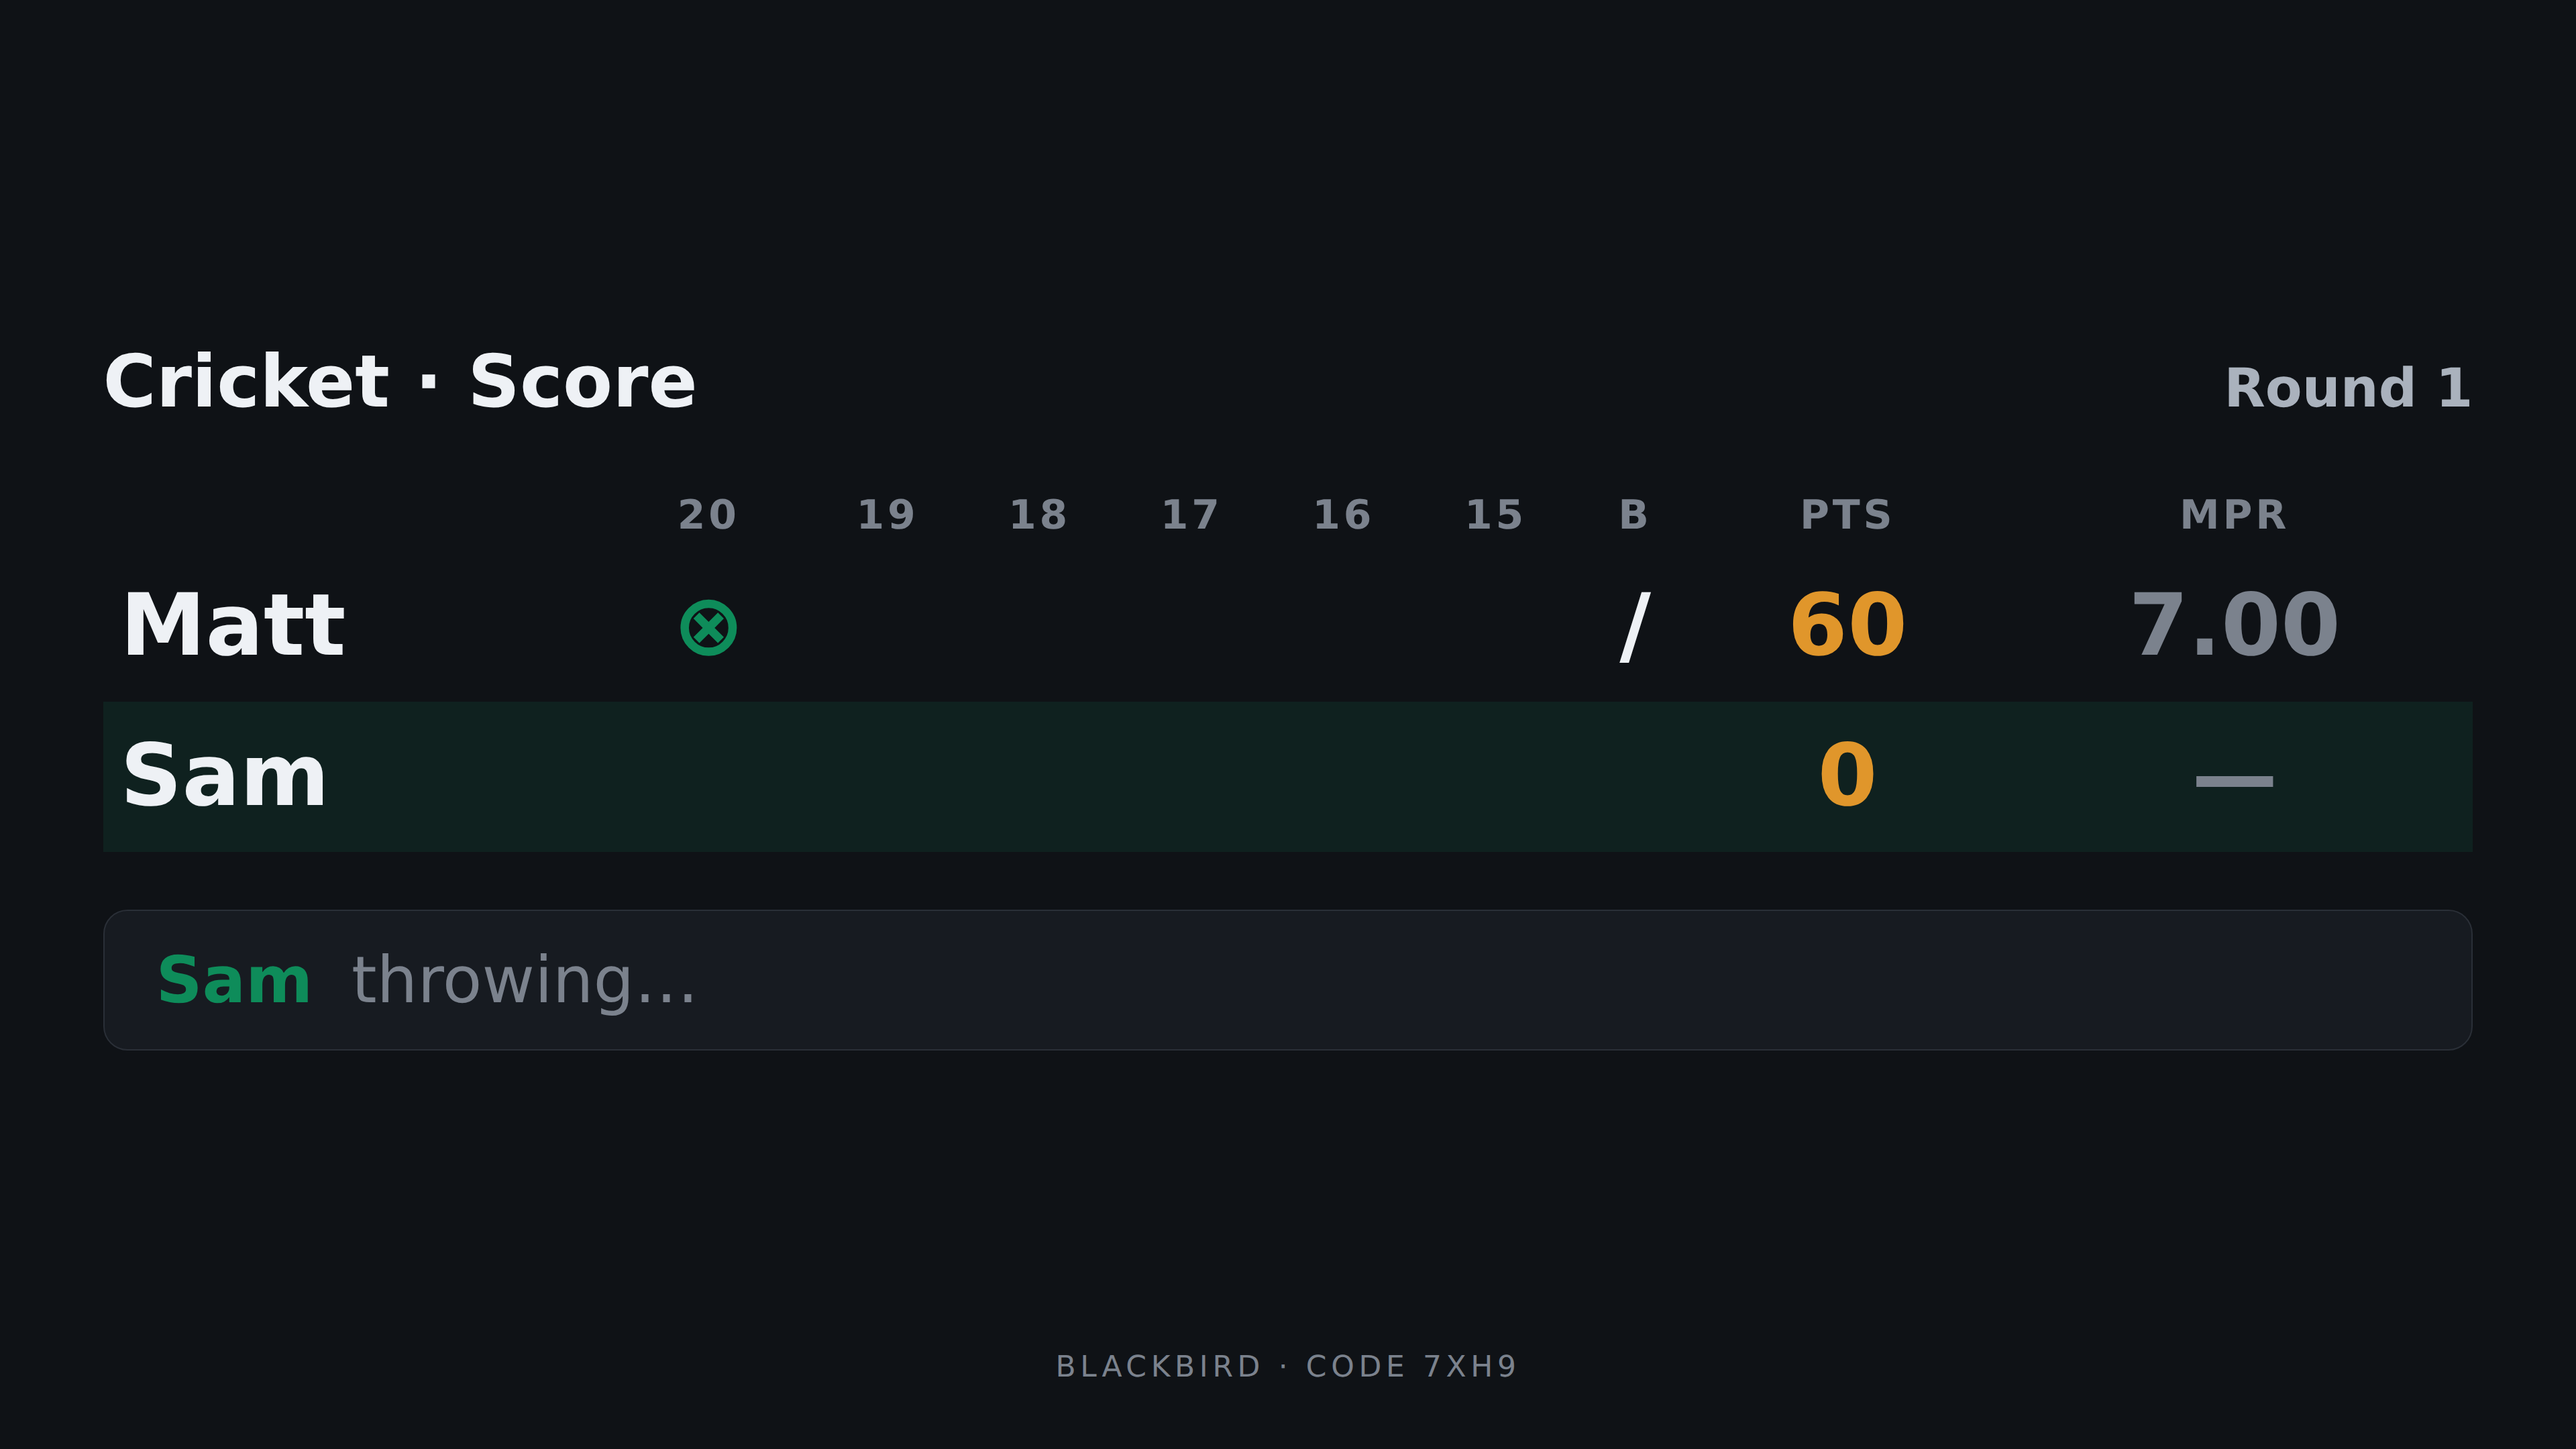
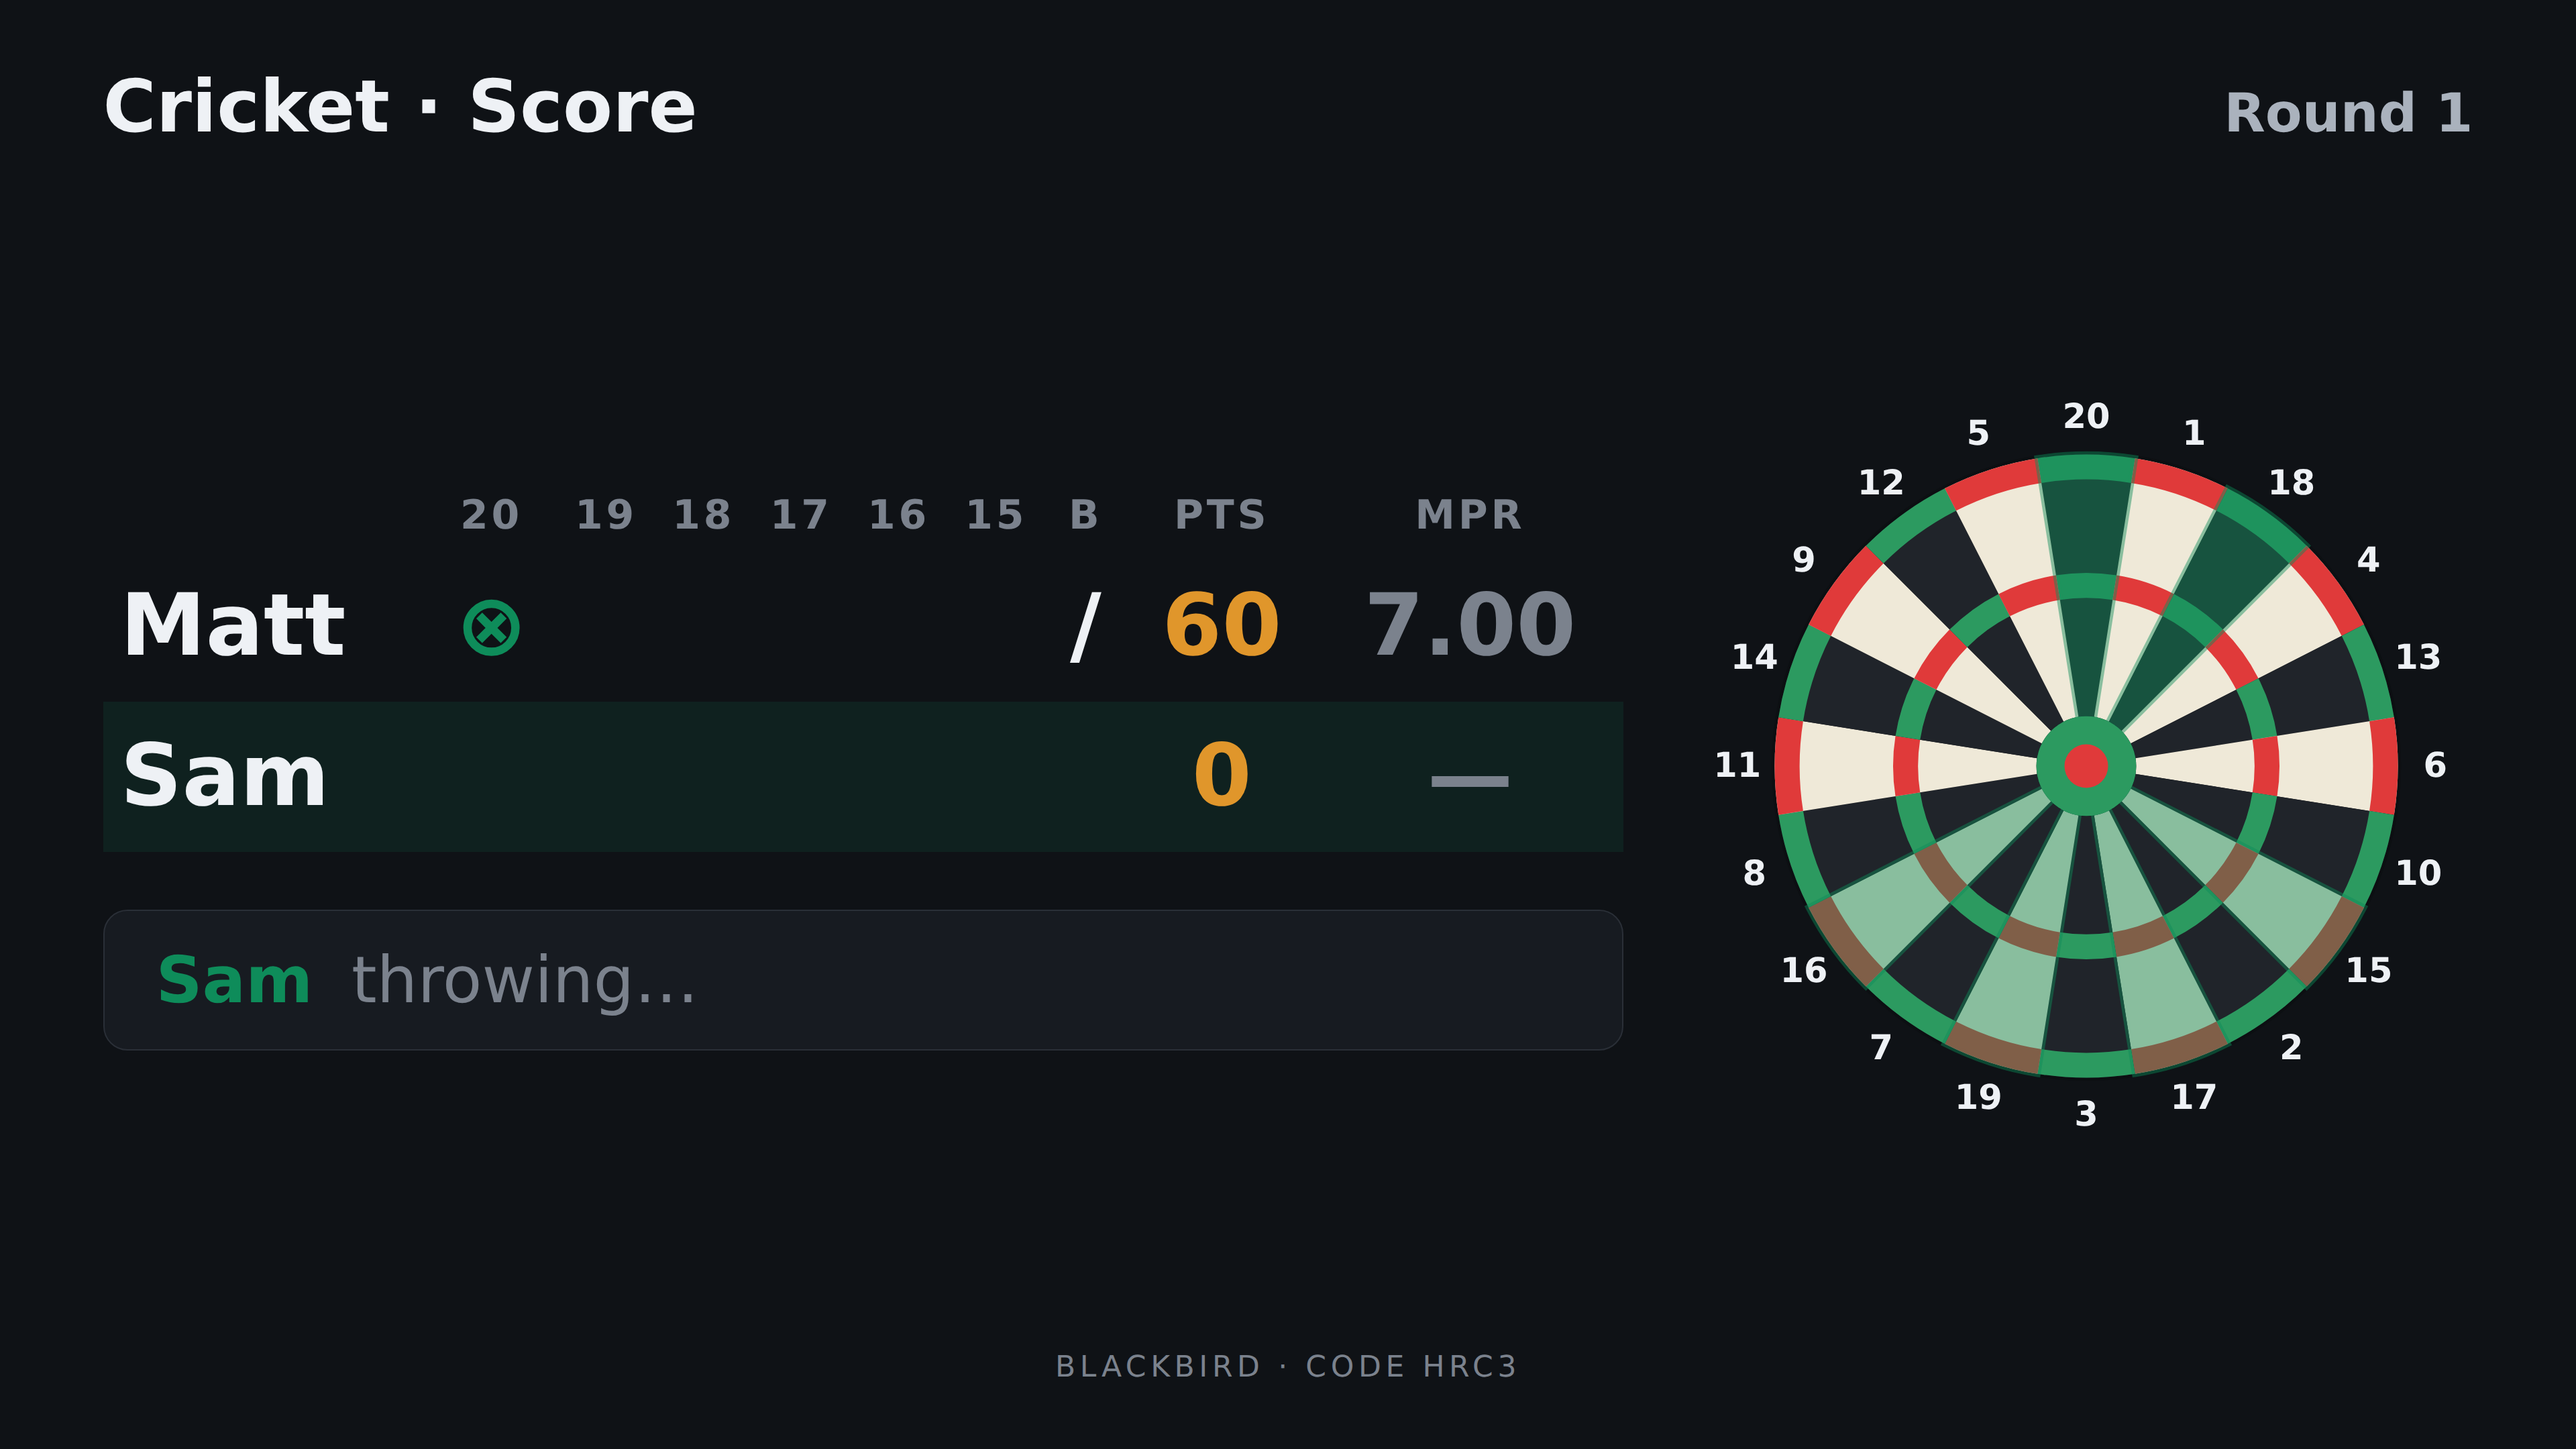
Show the live dartboard on the TV scoreboard
The TV views now include the same DartBoard vector as the phone,
side by side with the scoreboard: cricket highlights the current
player's open numbers, baseball highlights the inning's target, and
the current turn's darts are plotted as hits. Falls to a stacked
layout on portrait screens. README screenshots refreshed.

Claude-Session: https://claude.ai/code/session_01QARoeoGxiKuoxC6n1iZQd3

diff --git a/components/tv/TVScoreboard.js b/components/tv/TVScoreboard.js
@@ -1,7 +1,9 @@
 import { X01_TARGETS, BASEBALL_INNINGS } from "@/lib/constants";
 import { dartValue, dartLabel, markSymbol } from "@/lib/darts";
+import DartBoard from "@/components/DartBoard";
 
 const ringLabel = (d) => `${d.ring === 1 ? "S" : d.ring === 2 ? "D" : "T"}${d.target}`;
+const numOf = (t) => (t === "B" ? 25 : Number(t));
 
 /**
  * Big-screen scoreboard rendered on /tv from the phone's broadcast
@@ -25,49 +27,60 @@ function TVCricket({ game, snapshot }) {
   const mpr = (u) => (state[u].rounds ? (state[u].markCount / state[u].rounds).toFixed(2) : "—");
   const variantLabel =
     variant === "cutthroat" ? "Cutthroat" : variant === "noscore" ? "No-score" : "Score";
+  // same board view as the phone: current player's open numbers glow,
+  // this turn's darts are plotted
+  const openTargets = X01_TARGETS.filter((t) => state[cur].marks[t] < 3).map(numOf);
+  const boardHits = darts.map((d) => ({ n: numOf(d.target), mult: d.ring }));
 
   return (
     <div className="tv-board">
       <TVHeader left={`Cricket · ${variantLabel}`} right={`Round ${round}`} />
-      <table className="tv-table">
-        <thead>
-          <tr>
-            <th style={{ textAlign: "left" }}></th>
-            {X01_TARGETS.map((t) => (
-              <th key={t}>{t}</th>
-            ))}
-            {variant !== "noscore" && <th>Pts</th>}
-            <th>MPR</th>
-          </tr>
-        </thead>
-        <tbody>
-          {players.map((u) => (
-            <tr key={u} className={u === cur ? "active" : ""}>
-              <td className="tv-name">{u}</td>
-              {X01_TARGETS.map((t) => (
-                <td
-                  key={t}
-                  className="tv-num"
-                  style={{ color: state[u].marks[t] >= 3 ? "var(--accent)" : "var(--ink)" }}
-                >
-                  {markSymbol(Math.min(state[u].marks[t], 3))}
-                </td>
+      <div className="tv-split">
+        <div className="tv-main">
+          <table className="tv-table">
+            <thead>
+              <tr>
+                <th style={{ textAlign: "left" }}></th>
+                {X01_TARGETS.map((t) => (
+                  <th key={t}>{t}</th>
+                ))}
+                {variant !== "noscore" && <th>Pts</th>}
+                <th>MPR</th>
+              </tr>
+            </thead>
+            <tbody>
+              {players.map((u) => (
+                <tr key={u} className={u === cur ? "active" : ""}>
+                  <td className="tv-name">{u}</td>
+                  {X01_TARGETS.map((t) => (
+                    <td
+                      key={t}
+                      className="tv-num"
+                      style={{ color: state[u].marks[t] >= 3 ? "var(--accent)" : "var(--ink)" }}
+                    >
+                      {markSymbol(Math.min(state[u].marks[t], 3))}
+                    </td>
+                  ))}
+                  {variant !== "noscore" && (
+                    <td className="tv-num" style={{ color: "var(--amber)" }}>
+                      {state[u].points}
+                    </td>
+                  )}
+                  <td className="tv-num tv-muted">{mpr(u)}</td>
+                </tr>
               ))}
-              {variant !== "noscore" && (
-                <td className="tv-num" style={{ color: "var(--amber)" }}>
-                  {state[u].points}
-                </td>
-              )}
-              <td className="tv-num tv-muted">{mpr(u)}</td>
-            </tr>
-          ))}
-        </tbody>
-      </table>
-      <TVTurnStrip
-        cur={cur}
-        darts={darts.map(ringLabel)}
-        hint={darts.length ? "" : "throwing…"}
-      />
+            </tbody>
+          </table>
+          <TVTurnStrip
+            cur={cur}
+            darts={darts.map(ringLabel)}
+            hint={darts.length ? "" : "throwing…"}
+          />
+        </div>
+        <div className="tv-boardwrap">
+          <DartBoard highlight={openTargets} hits={boardHits} />
+        </div>
+      </div>
     </div>
   );
 }
@@ -87,28 +100,35 @@ function TVX01({ game, snapshot }) {
         right={msg || ""}
         rightColor={msg ? "var(--red)" : undefined}
       />
-      <div className="tv-x01-grid" style={{ "--tv-players": Math.min(players.length, 4) }}>
-        {players.map((u) => {
-          const active = u === cur;
-          const shown = active ? s.scores[u] - turnSum : s.scores[u];
-          return (
-            <div key={u} className={`tv-x01-card ${active ? "active" : ""}`}>
-              <div className="tv-x01-name">{u}</div>
-              <div className="tv-x01-score" style={{ color: shown <= 40 ? "var(--red)" : undefined }}>
-                {shown}
-              </div>
-              <div className="tv-x01-sub">
-                avg {avg(u)} · {s.darts[u]} darts
-              </div>
-            </div>
-          );
-        })}
+      <div className="tv-split">
+        <div className="tv-main">
+          <div className="tv-x01-grid" style={{ "--tv-players": Math.min(players.length, 2) }}>
+            {players.map((u) => {
+              const active = u === cur;
+              const shown = active ? s.scores[u] - turnSum : s.scores[u];
+              return (
+                <div key={u} className={`tv-x01-card ${active ? "active" : ""}`}>
+                  <div className="tv-x01-name">{u}</div>
+                  <div className="tv-x01-score" style={{ color: shown <= 40 ? "var(--red)" : undefined }}>
+                    {shown}
+                  </div>
+                  <div className="tv-x01-sub">
+                    avg {avg(u)} · {s.darts[u]} darts
+                  </div>
+                </div>
+              );
+            })}
+          </div>
+          <TVTurnStrip
+            cur={cur}
+            darts={turnDarts.map(dartLabel)}
+            hint={turnDarts.length ? `${turnSum} this turn` : "throwing…"}
+          />
+        </div>
+        <div className="tv-boardwrap">
+          <DartBoard hits={turnDarts} />
+        </div>
       </div>
-      <TVTurnStrip
-        cur={cur}
-        darts={turnDarts.map(dartLabel)}
-        hint={turnDarts.length ? `${turnSum} this turn` : "throwing…"}
-      />
     </div>
   );
 }
@@ -128,39 +148,46 @@ function TVBaseball({ game, snapshot }) {
   return (
     <div className="tv-board">
       <TVHeader left="Baseball" right={`Inning ${inning} · aiming at ${target}`} />
-      <table className="tv-table">
-        <thead>
-          <tr>
-            <th style={{ textAlign: "left" }}></th>
-            {cols.map((c) => (
-              <th key={c} style={{ color: c === inning ? "var(--accent)" : undefined }}>
-                {c > innings ? "E" : c}
-              </th>
-            ))}
-            <th>R</th>
-          </tr>
-        </thead>
-        <tbody>
-          {players.map((u) => (
-            <tr key={u} className={u === cur ? "active" : ""}>
-              <td className="tv-name">{u}</td>
-              {cols.map((c) => (
-                <td key={c} className="tv-num">
-                  {state[u].innings[c - 1] != null ? state[u].innings[c - 1] : ""}
-                </td>
+      <div className="tv-split">
+        <div className="tv-main">
+          <table className="tv-table">
+            <thead>
+              <tr>
+                <th style={{ textAlign: "left" }}></th>
+                {cols.map((c) => (
+                  <th key={c} style={{ color: c === inning ? "var(--accent)" : undefined }}>
+                    {c > innings ? "E" : c}
+                  </th>
+                ))}
+                <th>R</th>
+              </tr>
+            </thead>
+            <tbody>
+              {players.map((u) => (
+                <tr key={u} className={u === cur ? "active" : ""}>
+                  <td className="tv-name">{u}</td>
+                  {cols.map((c) => (
+                    <td key={c} className="tv-num">
+                      {state[u].innings[c - 1] != null ? state[u].innings[c - 1] : ""}
+                    </td>
+                  ))}
+                  <td className="tv-num" style={{ color: "var(--amber)" }}>
+                    {state[u].total}
+                  </td>
+                </tr>
               ))}
-              <td className="tv-num" style={{ color: "var(--amber)" }}>
-                {state[u].total}
-              </td>
-            </tr>
-          ))}
-        </tbody>
-      </table>
-      <TVTurnStrip
-        cur={cur}
-        darts={turnDarts.map(dartLabel)}
-        hint={turnDarts.length ? "" : "throwing…"}
-      />
+            </tbody>
+          </table>
+          <TVTurnStrip
+            cur={cur}
+            darts={turnDarts.map(dartLabel)}
+            hint={turnDarts.length ? "" : "throwing…"}
+          />
+        </div>
+        <div className="tv-boardwrap">
+          <DartBoard highlight={[target]} hits={turnDarts} />
+        </div>
+      </div>
     </div>
   );
 }

diff --git a/app/globals.css b/app/globals.css
@@ -874,3 +874,38 @@ label.check input {
   font-weight: 800;
   letter-spacing: 0.25em;
 }
+
+/* tv: scoreboard + live dartboard side by side */
+.tv-split {
+  flex: 1;
+  display: grid;
+  grid-template-columns: 1fr minmax(240px, 30vw);
+  gap: 3vw;
+  align-items: center;
+  min-height: 0;
+}
+.tv-main {
+  display: flex;
+  flex-direction: column;
+  gap: 2.2vw;
+  min-width: 0;
+}
+.tv-boardwrap {
+  display: flex;
+  align-items: center;
+  justify-content: center;
+}
+.tv-boardwrap svg {
+  width: 100%;
+  height: auto;
+  max-height: 78vh;
+}
+/* portrait / narrow screens: board tucks under the scoreboard */
+@media (max-aspect-ratio: 1/1) {
+  .tv-split {
+    grid-template-columns: 1fr;
+  }
+  .tv-boardwrap svg {
+    max-width: 60vw;
+  }
+}
